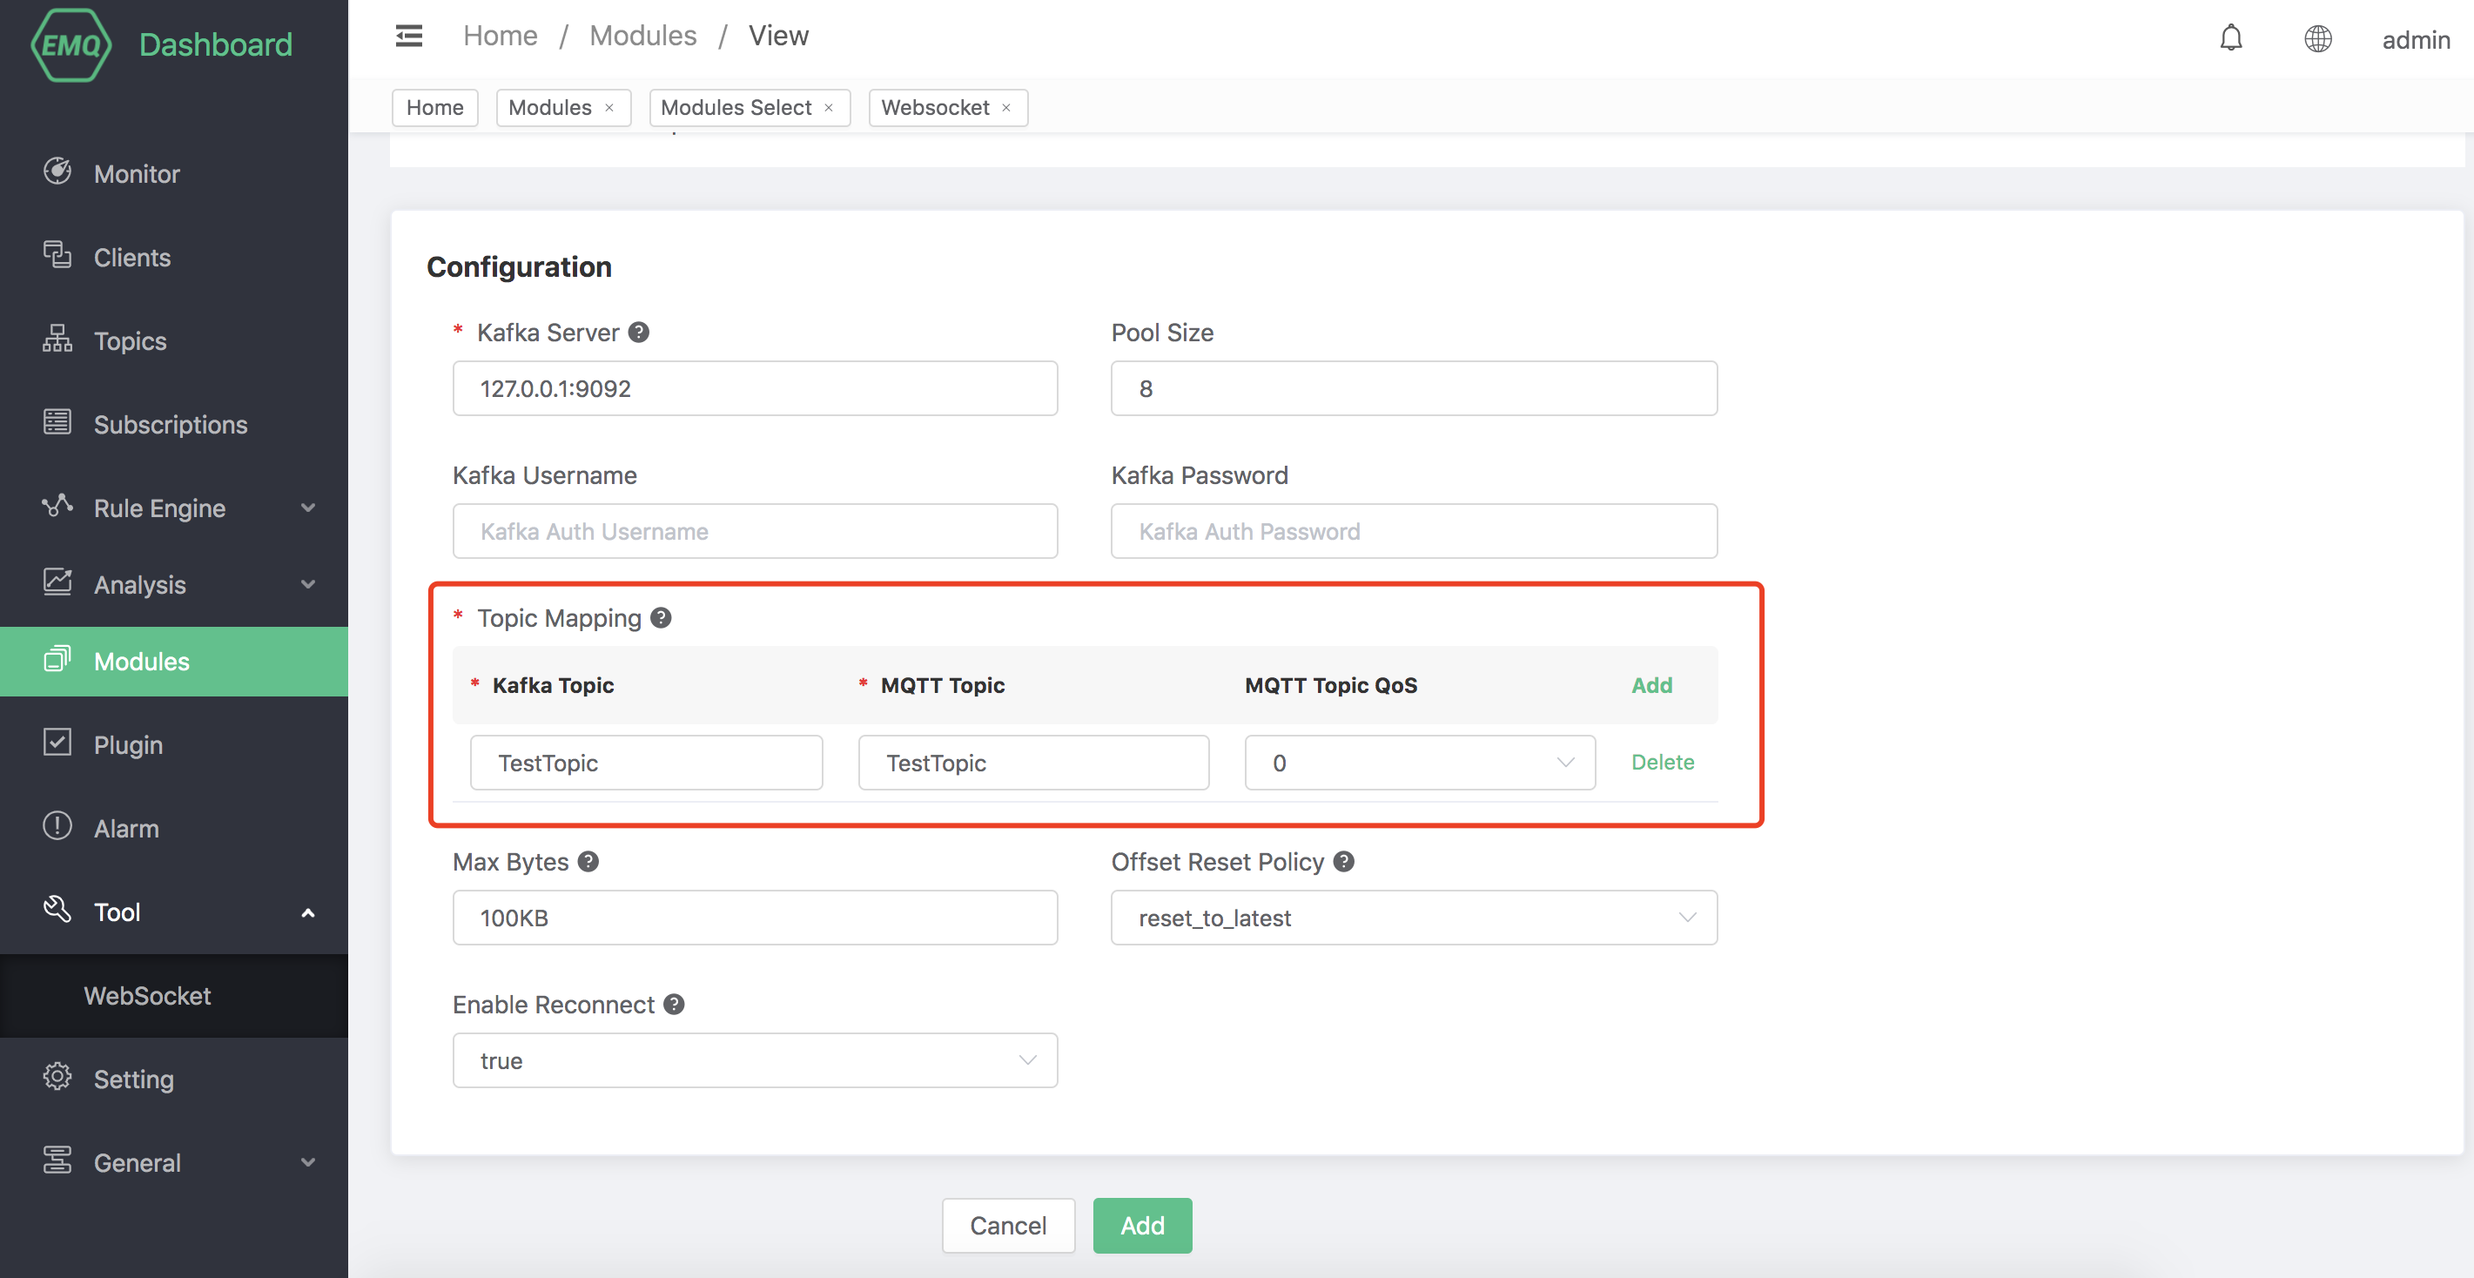
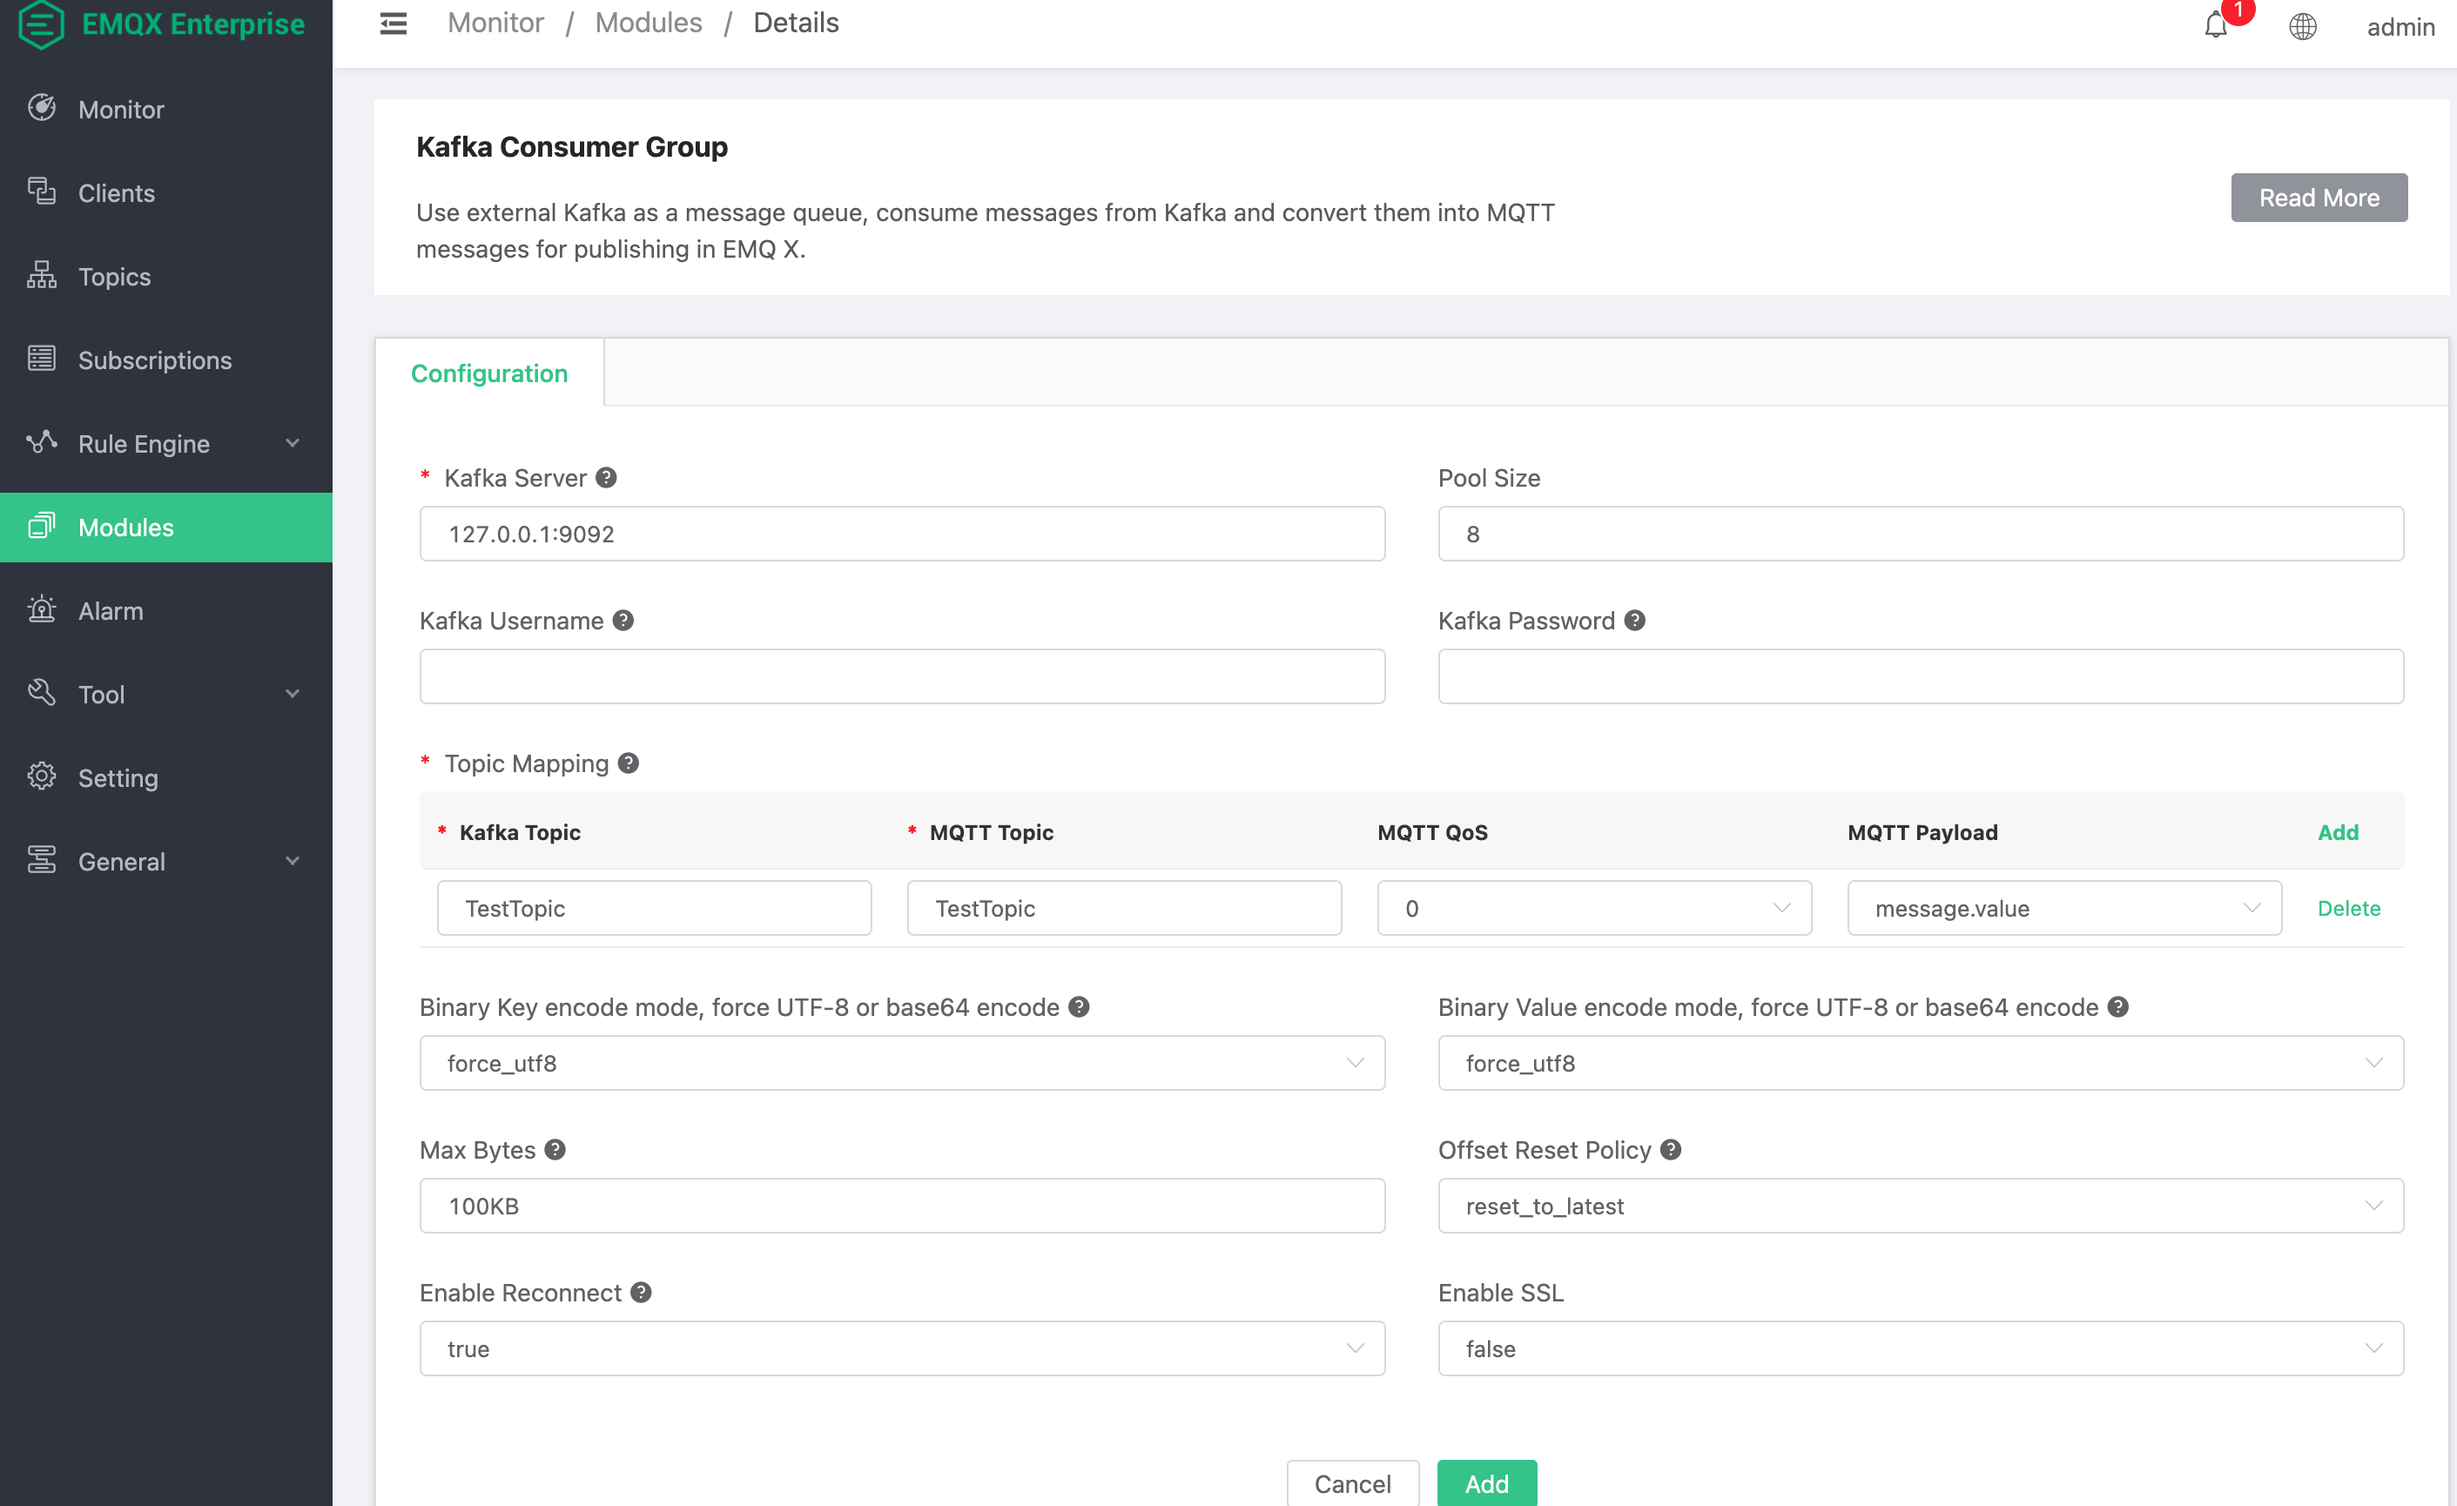
feat: Kafka consumer support key & value encode mode

diff --git a/en_US/modules/kafka_consumer.md b/en_US/modules/kafka_consumer.md
@@ -28,47 +28,44 @@ Before creating resources, you need to create Kafka topics in advance, otherwise
 Create Kafka topic:
 
 ```bash
-$ ./bin/kafka-topics.sh --zookeeper localhost:2181 --replication-factor 1 --partitions 1 --topic testTopic --create
+./bin/kafka-topics.sh --zookeeper localhost:2181 --replication-factor 1 --partitions 1 --topic testTopic --create
 ```
+
 ## Create module
 
 Open [EMQX Dashboard](http://127.0.0.1:18083/#/modules), click the "Modules" tab on the left, and choose to add:
 
 Select Kafka consumer group module:
 
-![](./assets/modules.png)
+![img](./assets/modules.png)
 
 Click "Select", and then select "Kafka Consumer Group":
 
-![](./assets/kafka_consumer2.png)
+![img](./assets/kafka_consumer2.png)
 
 Fill in the relevant parameters:
 
-![](./assets/kafka_consumer3.png)
+![img](./assets/kafka_consumer3.png)
 
-1). Kafka server address
-
-2). Kafka consumer connection pool size
-
-3). Kafka subscription topic
-
-4). MQTT message subject
-
-5). MQTT theme service quality
-
-6). Kafka Max Bytes (the maximum number of bytes of messages consumed each time from Kafka)
-
-7). Kafka Offset Reset Policy (reset Offset policy, reset_to_latest | reset_by_subdcriber)
-
-7). Is Kafka consumer reconnected?
+- Kafka server address
+- Kafka consumer connection pool size
+- Kafka subscription topic
+- MQTT message subject
+- MQTT theme service quality
+- MQTT Payload. Use Kafka message.value or entire message
+- Binary Key encode mode, force UTF-8 or base64 encode. The encoding method of the key in the message, if the key value is a non-string or a value that may generate a character set encoding exception, base64 mode is recommended
+- Binary Value encode mode, force UTF-8 or base64 encode. The encoding method of the value in the message, if the value is a non-string or a value that may generate a character set encoding exception, base64 mode is recommended
+- Kafka Max Bytes (the maximum number of bytes of messages consumed each time from Kafka)
+- Kafka Offset Reset Policy (reset Offset policy, reset_to_latest | reset_by_subdcriber)
+- Is Kafka consumer reconnected?
 
 After clicking Add, the module is added:
 
-![](./assets/kafka_consumer4.png)
+![img](./assets/kafka_consumer4.png)
 
 The resource has been created, now use Dashboard's websocket tool to subscribe to the MQTT topic "TestTopic":
 
-![](./assets/kafka_consumer5.png)
+![img](./assets/kafka_consumer5.png)
 
 Use the kafka command line to produce a message:
 
@@ -76,8 +73,8 @@ Use the kafka command line to produce a message:
 ./bin/kafka-console-producer.sh --broker-list localhost:9092 --topic TestTopic
 ```
 
-![](./assets/kafka_consumer6.png)
+![img](./assets/kafka_consumer6.png)
 
 The websocket tool of Dashboard received the message "hello-kafka" produced by Kafka:
 
-![](./assets/kafka_consumer7.png)
+![img](./assets/kafka_consumer7.png)

diff --git a/zh_CN/modules/kafka_consumer.md b/zh_CN/modules/kafka_consumer.md
@@ -39,36 +39,32 @@ $ ./bin/kafka-topics.sh --zookeeper localhost:2181 --replication-factor 1 --part
 
 选择 Kafka 消费组模块:
 
-![](./assets/kafka_consumer1.png)
-
+![img](./assets/kafka_consumer1.png)
 
 填写相关参数:
 
-![](./assets/kafka_consumer3.png)
+![img](./assets/kafka_consumer3.png)
 
-1). Kafka 服务器地址
-
-2). Kafka consumer 连接池大小
-
-3). Kafka 的订阅主题
-
-4). MQTT 的消息主题
-
-5). MQTT 的主题服务质量
-
-6). Kafka Max Bytes (每次从 Kafka 里消费消息的最大字节数)
-
-7). Kafka Offset Reset Policy (重置Offset策略,reset_to_latest | reset_by_subdcriber)
-
-7). Kafka consumer 是否重连
+- Kafka 服务器地址
+- Kafka consumer 连接池大小
+- Kafka 的订阅主题
+- MQTT 的消息主题
+- MQTT 的主题服务质量
+- MQTT PayLoad，可选使用 Kafka message.value 或者 message 全部信息
+- 二进制 key 编码模式，UTF-8 或 base64，消息中 key 的编码方式，如果 key 值为非字符串或可能产生字符集编码异常的值，推荐使用 base64 模式
+- 二进制 value 编码模式，UTF-8 或 base64，消息中 value 的编码方式，如果 value 值为非字符串或可能产生字符集编码异常的值，推荐使用 base64 模式
+- Kafka Max Bytes (每次从 Kafka 里消费消息的最大字节数)
+- Kafka Offset Reset Policy (重置Offset策略,reset_to_latest | reset_by_subdcriber)
+- Kafka consumer 是否重连
+- SSL 连接参数
 
 点击添加后，模块添加完成:
 
-![](./assets/kafka_consumer4.png)
+![img](./assets/kafka_consumer4.png)
 
 资源已经创建完成，现在用Dashboard的websocket工具订阅MQTT的主题 "TestTopic":
 
-![](./assets/kafka_consumer5.png)
+![img](./assets/kafka_consumer5.png)
 
 使用kafka 命令行 生产一条消息:
 
@@ -76,8 +72,8 @@ $ ./bin/kafka-topics.sh --zookeeper localhost:2181 --replication-factor 1 --part
 ./bin/kafka-console-producer.sh --broker-list localhost:9092 --topic TestTopic
 ```
 
-![](./assets/kafka_consumer6.png)
+![img](./assets/kafka_consumer6.png)
 
 Dashboard的websocket工具接收到了Kafka 生产的消息"hello-kafka":
 
-![](./assets/kafka_consumer7.png)
+![img](./assets/kafka_consumer7.png)
